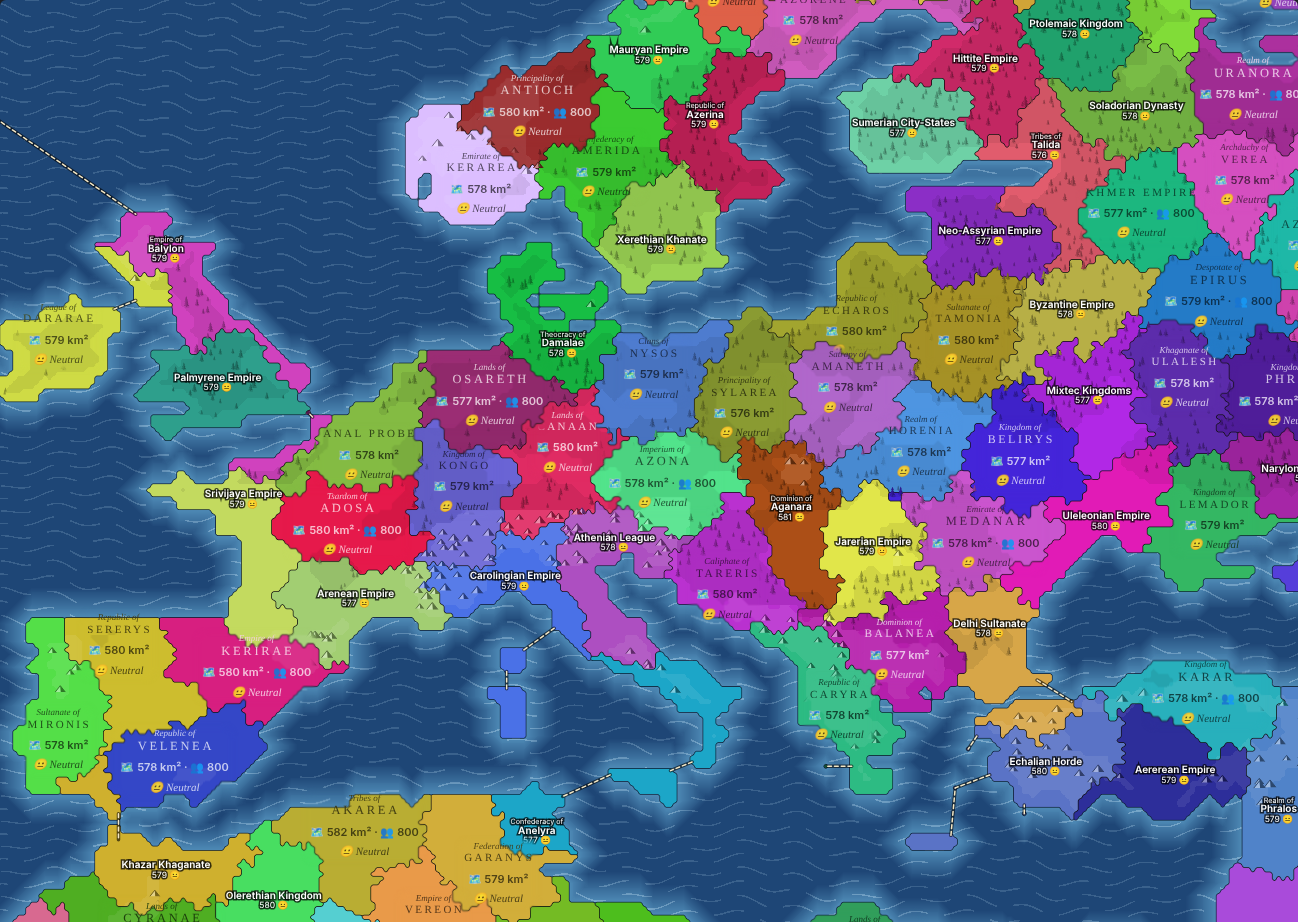
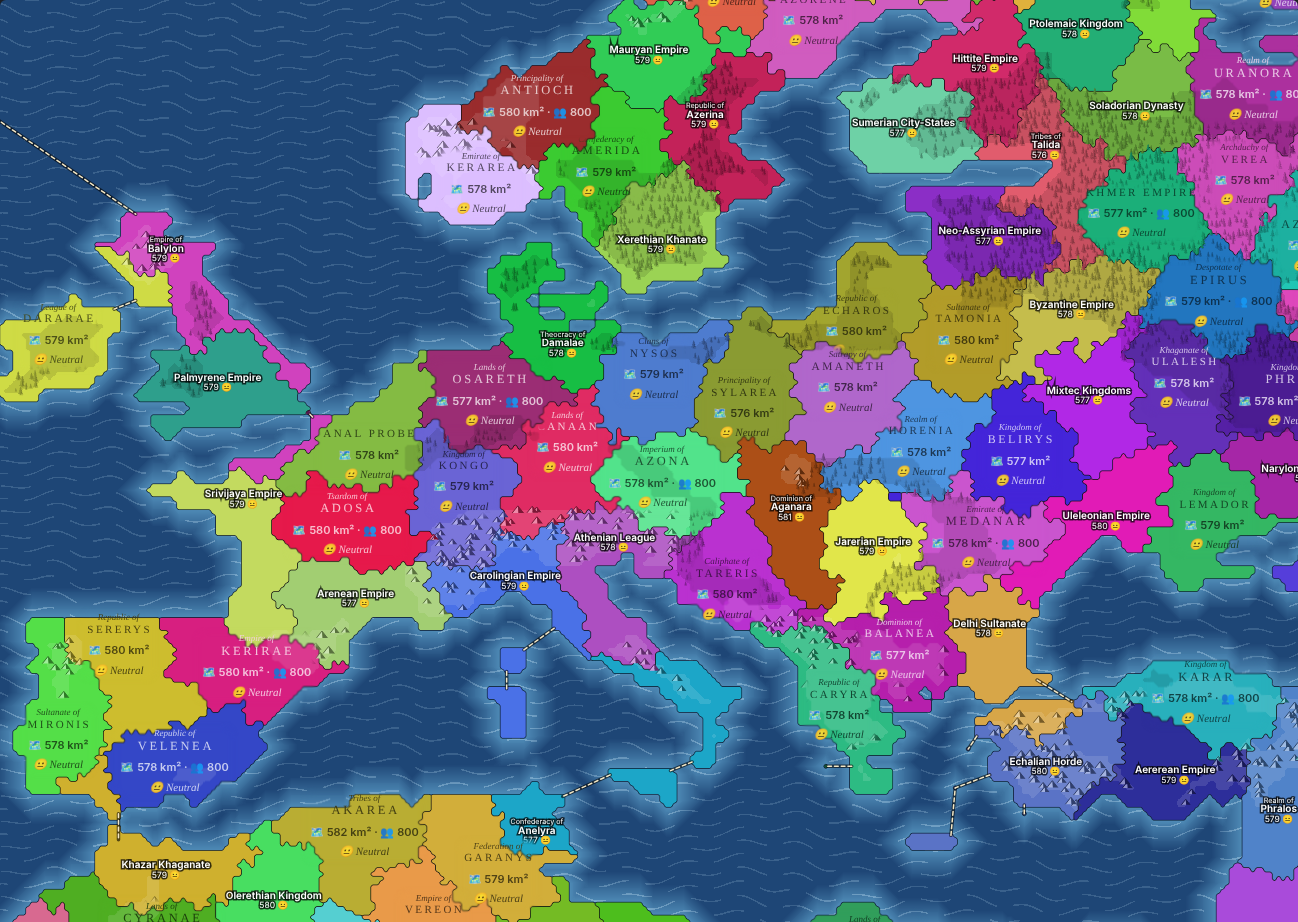
Clearer forests: stricter real-world forest, denser trees at mid zoom
Fixes trees and peaks barely showing in the start-location preview
(too few drawn at that zoom). README screenshot refreshed.

Claude-Session: https://claude.ai/code/session_01NWb4p6kYwxbSzvZiX9kHTs

diff --git a/index.html b/index.html
@@ -721,7 +721,7 @@ function speedCap(gen){ return Math.round(R.speedBase+gen.speed*R.speedPerPoint)
 // (cut through the Bering Strait), latitude latN down to 56°S. Run lengths, water first, as base64 varints.
[1 lines of base64/hex data omitted]
 // forests and mountains on the same 0.5° grid as WORLD, from NASA Blue Marble (dark green canopy) and NOAA ETOPO1 relief (rough ground), both public domain
[2 lines of base64/hex data omitted]
 // Risk-style sea routes between continents, as [lon,lat] pairs. Nearby islands get linked automatically.
 const WORLD_LINKS=[
   [[-167,65.5],[-171,66],1],  // Bering Strait: Alaska – Chukotka (crosses the map edge)
@@ -2818,8 +2818,8 @@ class MapView{
     this.palD=pal.map(c=>shade(c,0,0.32));
     // terrain: forest and mountain versions of every color. "atlas" = shades of the state's own color, "natural" = tinted green / stone
     const fst=UI.featStyle||"atlas", tint=(c,to,t)=>rgba(((c&255)*(1-t)+to[0]*t)|0,((c>>>8&255)*(1-t)+to[1]*t)|0,((c>>>16&255)*(1-t)+to[2]*t)|0,255);
-    this.palF=pal.map((c,k)=>k<4?c:fst==="natural"?tint(c,[52,92,48],0.2):shade(c,0,0.07));
-    this.palM=pal.map((c,k)=>k<4?c:fst==="natural"?tint(c,[150,138,120],0.22):shade(c,255,0.08));
+    this.palF=pal.map((c,k)=>k<4?c:fst==="natural"?tint(c,[52,92,48],0.3):shade(c,0,0.11));
+    this.palM=pal.map((c,k)=>k<4?c:fst==="natural"?tint(c,[150,138,120],0.32):shade(c,255,0.12));
     this.palGF=pal.map((c,k)=>k<4?c:fst==="natural"?tint(c,[24,56,26],0.6):shade(c,0,0.42));   // tree crowns
     this.palGH=pal.map((c,k)=>k<4?c:fst==="natural"?tint(c,[64,112,58],0.5):shade(c,0,0.24)); // light side of tree tops
     this.palGD=pal.map((c,k)=>k<4?c:fst==="natural"?tint(c,[70,60,50],0.6):shade(c,0,0.45));  // mountain shadow side and outline
@@ -3040,12 +3040,12 @@ class MapView{
   // little trees and peaks on forests and mountains, thinned out as you zoom out (each glyph has a fixed random rank)
   drawFeatures(ctx){
     const g=this.g; if(!g.feat||UI.featGlyphs===false) return; const P=featGlyphs(g), {W,H}=g, s=this.z*this.dpr, vis=this.vis;
-    const show=k=>Math.min(1,Math.pow((k?1.25:1)*this.z/(k?17:13),2)); // share shown, so glyphs stay ~13-20px apart
+    const show=k=>Math.min(1,Math.pow(this.z/(k?10:6.5),2)); // share shown: forests stay dense (~7px apart), peaks ~12px // share shown, so glyphs stay ~13-20px apart
     const pF=show(0), pM=show(1); if(pF<0.05&&pM<0.05) return;
     const x0=this.ox-2, y0=this.oy-2, x1=this.ox+this.cw/this.z+2, y1=this.oy+this.ch/this.z+2;
     const groups=new Map(), grp=(col)=>{ let p=groups.get(col); if(!p){ p=new Path2D(); groups.set(col,p); } return p; };
     const css=c=>`rgb(${c&255},${c>>>8&255},${c>>>16&255})`;
-    const fz=Math.min(1.2*s,20*this.dpr,Math.max(7*this.dpr,0.7*s/Math.sqrt(pF))), mz=Math.min(1.8*s,22*this.dpr,Math.max(9*this.dpr,1.0*s/Math.sqrt(pM)));
+    const fz=Math.min(1.2*s,20*this.dpr,Math.max(5*this.dpr,0.7*s/Math.sqrt(pF))), mz=Math.min(1.8*s,22*this.dpr,Math.max(9*this.dpr,1.0*s/Math.sqrt(pM)));
     for(let k=0;k<P.n;k++){ const x=P.x[k], y=P.y[k]; if(x<x0||x>x1||y<y0||y>y1) continue;
       const kind=P.k[k]; if(P.r[k]>=(kind===2?pM:pF)) continue;
       const i=(y|0)*W+(x|0), o=vis[i]; if(o<-1) continue; const X=(x-this.ox)*s, Y=(y-this.oy)*s;
@@ -4188,6 +4188,7 @@ function turnReport(prev){
 // ---------- change log ----------
 // Newest first. Add an entry with every commit: [title, "YYYY-MM-DD HH:MM", [short "what changed" bullets]].
 const CHANGELOG=[
+["Clearer forests","2026-11-12 18:37",["World map: only dense forest counts, so more open farmland (about 14% forest instead of 22%)","Trees packed closer when zoomed out, so forests read as blocks; also in the start-location preview","Forest and mountain shading a little stronger"]],
 ["Forest and mountain borders defend better","2026-11-12 18:22",["Defenders get up to +30% when the attacked border runs through mountains, up to +15% through forest, by how much of the border it covers","War tab shows the terrain bonus next to each border; attack window and battle reports include it","Computer states count it when choosing whom to attack"]],
 ["Wood from forests, iron from mountains","2026-11-12 18:20",["Forest land gives more wood: +1% per 1% of your land in forest, up to +25%","Mountain land gives more iron: +1% per 1% of your land in mountains, up to +25%","Home tab shows your forest and mountain land","Science tab: the Shore column is now Terrain (shore for food, forest for wood, mountains for iron)"]],
 ["Terrain stops at the shore","2026-11-12 18:18",["Forests and mountains end a little before coasts and rivers instead of running into the water"]],

diff --git a/docs/SYSTEMS.md b/docs/SYSTEMS.md
@@ -213,7 +213,7 @@ Each entry: **intent · what it is · key rules · reads · writes · notes**. T
 - Starting shapes and sizes (`relaxStates`, every map): the land to share is every land cell a state can reach over land or sea routes; each state gets an equal share (`cap`). All states regrow from their middles at the same speed, one cell per turn, always the free cell with the lowest path cost from their land. Path cost follows a smooth random terrain field (two layers of value noise, scaled to state size) and each state's own stretch and direction (up to 1.6×), so borders wander and shapes differ. Between rounds (up to 10, the most even kept) each middle moves to the centre of its land plus the free land nearest to it, so states drift into empty regions; a state that ended short grows faster next round. Finishing: short states take nearest cells, free ones first, then from bigger neighbors (givers stay in one piece); `unthin` removes narrow arms; finishing again. Then borders are roughened: 60 passes in which border cells, in random order and with 50% chance, switch to a random 4-neighbor state that already holds 3+ of their 8 surrounding cells, if the giver stays in one piece and isn't smaller than the taker (sizes drift a cell or two); this gives ragged borders like the old generator without long strips. Measured: maps up to 300 states within ±2%; 1000-state world maps within ±5% (95% within ±2%); unowned land at start 1–2% (scraps and unreachable islands); creating a 1000-state world map takes ~14 s (150 states ~1–5 s).
 - Settling: each state bordering unowned land claims `(5 + 2% of its land) × exploreMul` a year. Unowned land comes from the map start and from collapsed states.
 - Shore: land cells next to water → harvest bonus. Land type is fixed at start even if the coast is lost.
-- Forests and mountains (`makeFeatures`, `g.feat`: 0 open, 1 forest, 2 mountains): fixed per map, own dice from the seed (the rest of a seed's map is unchanged). Mountains: thin winding ranges where a value-noise field crosses its middle, only in some regions, share of land from the setup's Mountains slider (default 8%, `opts.mtn`; fallback `R.mtnShare`). Forests: noise blobs about a state wide, share from the Forests slider (default 16%, `opts.forest`; fallback `R.forestShare`; forests + mountains ≤ 100%). World map: real terrain instead (`WORLD_FEAT`, 0.5° grid like `WORLD`, built from NASA Blue Marble canopy colour and NOAA ETOPO1 shaded-relief roughness, both public domain; ~11% mountains, ~22% forest of land), scaled with a little noise on the edges (`worldFeatures`). Both kinds stop short of water: `shoreStrip` keeps a ragged strip of open land along coasts and rivers (~2 cells on generated maps, ~1 on the World map); generated-map shares are of all land but picked from land outside the strip, so high slider values come out a bit lower. Forest land raises wood and mountain land iron (`forestBonus`/`mtnBonus`, like shore: `forestYield`/`mtnYield` 1 = +1% per 1% of land, max `forestMax`/`mtnMax` 25%); counted per state in `computeShore` (`c.forest`, `c.mtn`) whenever borders move. Borders through forest/mountains also defend better (see 3.12). Saves made before this have no `feat` and show no terrain.
+- Forests and mountains (`makeFeatures`, `g.feat`: 0 open, 1 forest, 2 mountains): fixed per map, own dice from the seed (the rest of a seed's map is unchanged). Mountains: thin winding ranges where a value-noise field crosses its middle, only in some regions, share of land from the setup's Mountains slider (default 8%, `opts.mtn`; fallback `R.mtnShare`). Forests: noise blobs about a state wide, share from the Forests slider (default 16%, `opts.forest`; fallback `R.forestShare`; forests + mountains ≤ 100%). World map: real terrain instead (`WORLD_FEAT`, 0.5° grid like `WORLD`, built from NASA Blue Marble canopy colour and NOAA ETOPO1 shaded-relief roughness, both public domain; ~11% mountains, ~14% forest of land (densest canopy only)), scaled with a little noise on the edges (`worldFeatures`). Both kinds stop short of water: `shoreStrip` keeps a ragged strip of open land along coasts and rivers (~2 cells on generated maps, ~1 on the World map); generated-map shares are of all land but picked from land outside the strip, so high slider values come out a bit lower. Forest land raises wood and mountain land iron (`forestBonus`/`mtnBonus`, like shore: `forestYield`/`mtnYield` 1 = +1% per 1% of land, max `forestMax`/`mtnMax` 25%); counted per state in `computeShore` (`c.forest`, `c.mtn`) whenever borders move. Borders through forest/mountains also defend better (see 3.12). Saves made before this have no `feat` and show no terrain.
 - **Reads**: battles, collapses, explore research. **Writes**: capacity, production (shore food, forest wood, mountain iron), wonders, fronts, adjacency.
 
 ### 3.14 Relations
